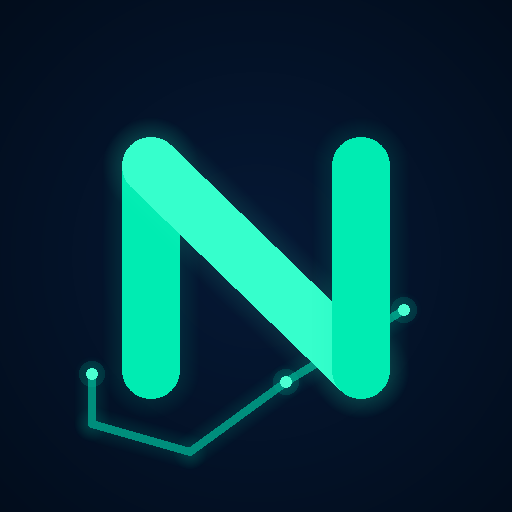
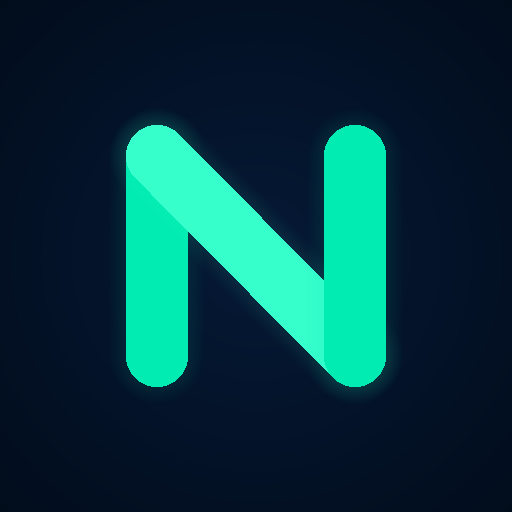
fix: simplify project setup and refine near mark

diff --git a/src/extension.ts b/src/extension.ts
@@ -11,6 +11,7 @@ import { chooseGsdCommand } from './services/gsdCommands';
 import { StakingService } from './services/stakingService';
 import { walletStatusCopy } from './services/chatBridge';
 import { NearAiPanelViewProvider } from './services/panelView';
+import { deriveProfileId } from './domain/auth';
 
 export function activate(context: vscode.ExtensionContext): void {
   const auth = new AuthService(context.secrets);
@@ -113,10 +114,9 @@ async function saveProfileCredential(auth: AuthService, apiKey: string): Promise
   const root = vscode.workspace.workspaceFolders?.[0]?.uri.fsPath;
   if (!root) { void vscode.window.showWarningMessage('Open a workspace before configuring a project profile.'); return; }
   const profiles = new ProfileStore(root, auth);
-  const profileId = await vscode.window.showInputBox({ prompt: 'Stable profile ID (for example, profile-company)', placeHolder: 'profile-company', ignoreFocusOut: true });
-  if (profileId === undefined) return;
-  const displayName = await vscode.window.showInputBox({ prompt: 'Profile name', value: profileId, ignoreFocusOut: true });
+  const displayName = await vscode.window.showInputBox({ prompt: 'Project name', value: vscode.workspace.name ?? 'My project', placeHolder: 'Anything you want to call this project', ignoreFocusOut: true });
   if (displayName === undefined) return;
+  const profileId = deriveProfileId(root, displayName);
   const organization = await vscode.window.showInputBox({ prompt: 'Organization or company', ignoreFocusOut: true });
   if (organization === undefined) return;
   const settings = readSettings();
@@ -129,9 +129,9 @@ async function saveProfileCredential(auth: AuthService, apiKey: string): Promise
   await profiles.saveProfileApiKey(profileId, apiKey);
   const validated = await profiles.validate(profileId);
   if (validated.validation.status === 'valid') {
-    void vscode.window.showInformationMessage(`Profile “${validated.displayName}” is validated for this workspace. Select it explicitly from Chat Setup before dispatch.`);
+    void vscode.window.showInformationMessage(`Project “${validated.displayName}” is validated for this workspace. Select it explicitly from Chat Setup before dispatch.`);
   } else {
-    void vscode.window.showWarningMessage(`Profile “${validated.displayName}” was saved but provider validation did not pass. Review Setup before dispatch.`);
+    void vscode.window.showWarningMessage(`Project “${validated.displayName}” was saved but provider validation did not pass. Review Setup before dispatch.`);
   }
 }
 

diff --git a/src/test/auth.test.ts b/src/test/auth.test.ts
@@ -1,6 +1,6 @@
 import assert from 'node:assert/strict';
 import test from 'node:test';
-import { createProjectCredentialScope } from '../domain/auth';
+import { createProjectCredentialScope, deriveProfileId, isProfileId } from '../domain/auth';
 import { API_KEY_SECRET, REFRESH_TOKEN_SECRET, AuthService, SecretStorageLike, scopedSecret } from '../services/auth';
 
 class MemorySecrets implements SecretStorageLike {
@@ -40,4 +40,12 @@ test('legacy credentials require an explicit current-project import and are neve
 test('invalid scopes cannot be used to probe arbitrary SecretStorage keys', async () => {
   const auth = new AuthService(new MemorySecrets());
   await assert.rejects(() => auth.getScopedApiKey({ version: 1, projectId: '/workspace/project-a', profileId: 'profile-company' }), /valid project/);
+});
+
+test('project names are user-friendly while internal profile scopes remain valid and opaque', () => {
+  const profileId = deriveProfileId('/workspace/project-a', 'Research & Development / 2026');
+  assert.equal(isProfileId(profileId), true);
+  assert.match(profileId, /^profile-research-development-2026-[a-f0-9]{10}$/);
+  assert.equal(deriveProfileId('/workspace/project-a', 'Research & Development / 2026'), profileId);
+  assert.notEqual(deriveProfileId('/workspace/project-b', 'Research & Development / 2026'), profileId);
 });

diff --git a/src/domain/auth.ts b/src/domain/auth.ts
@@ -56,6 +56,20 @@ export function isProfileId(value: unknown): value is string {
 }
 
 /**
+ * Turn the user-facing project name into an opaque, stable profile key.
+ * Users should name projects naturally; the provider scope still receives a
+ * constrained identifier without exposing the workspace path in storage.
+ */
+export function deriveProfileId(projectIdentity: string, projectName: string): string {
+  const identity = projectIdentity.trim();
+  const name = projectName.trim();
+  if (!identity || !name || identity.includes('\u0000') || name.includes('\u0000')) throw new Error('A project identity and name are required.');
+  const slug = name.toLowerCase().replace(/[^a-z0-9]+/g, '-').replace(/^-+|-+$/g, '').slice(0, 40) || 'project';
+  const suffix = createHash('sha256').update(`${identity}\u0000${name}`).digest('hex').slice(0, 10);
+  return `profile-${slug}-${suffix}`;
+}
+
+/**
  * Hash the canonical workspace identity before it is used in a secret name.
  * The path itself, display names, and credential material never enter storage keys.
  */
